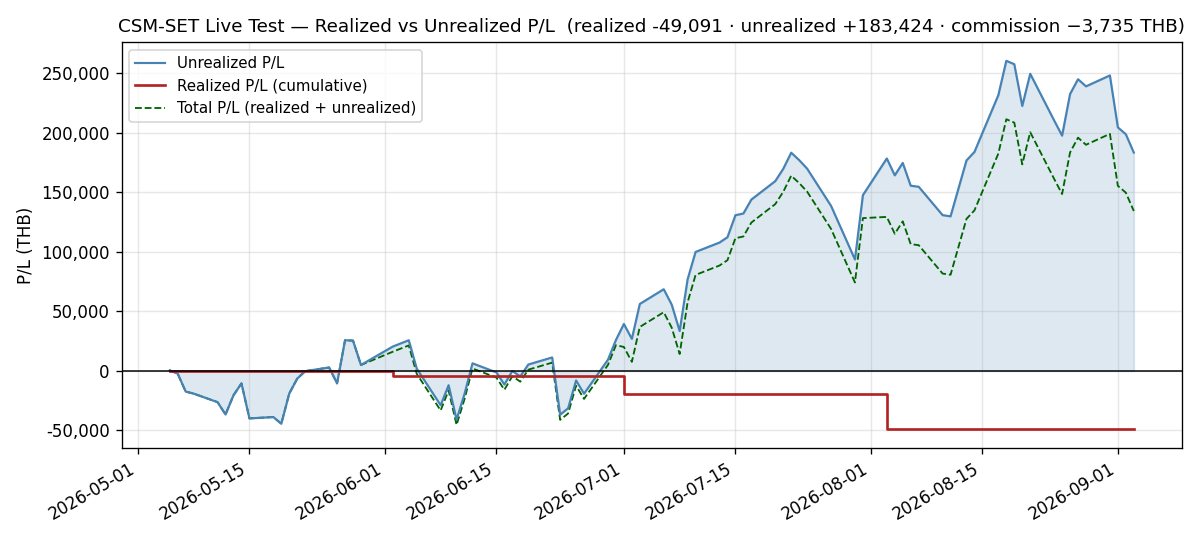
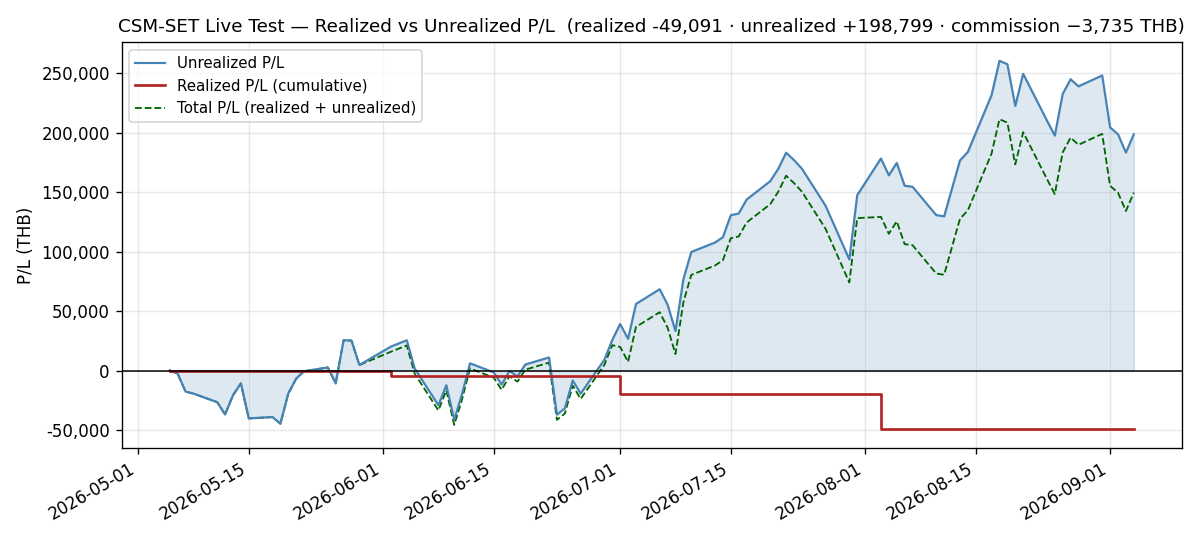
docs(live-test): add daily log for 2026-09-04
NAV closes at 1,268,097.70 THB, up +15,375.00 (+1.2273%), cumulative
+13.22% - a near-complete round trip recovering all but 48.00 THB of
Thursday's decline. Breadth is 7 up / 0 down / 3 flat: not one held name
fell, the first zero-decliner session of the holding period, and three
simultaneous flat prints is also a first.

The daily_return fix is correct for a second session and today proves the
OTHER direction. The legacy basis would have given +0.0121245 against the
true +0.0122733 - understating the gain, exactly as the one-directional
model requires. Every prior observation was on a losing session, i.e. the
overstatement half; the claim is now observed in both signs rather than
inferred from one.

Neither watch item tripped and both are recorded PENDING rather than
dropped: MGC recovered from +0.34% to +1.72% so its EMA100 crossing was
never tested, and AUTO moved away from the 5% floor because MGC rose. Each
forecast was conditioned on a fall that did not happen.

ENERG's headroom set a fourth consecutive tightest but for the FIRST time
by the numerator - the book rose and headroom still fell, because the
sleeve grew +6,440 against a ceiling that grew +5,381.25. Three prior
tightenings were pure denominator. Same reading, opposite cause, so the
cap can tighten in either market direction.

Also verified rather than assumed: the tfex-s50 decommission (TK-0523,
another session) shares this gateway ingestion path, and did not disturb
[…]

diff --git a/docs/live-test/daily/2026-09-04.md b/docs/live-test/daily/2026-09-04.md
@@ -1,0 +1,178 @@
+# Daily Log — 2026-09-04 (Friday)
+
+**As of:** 2026-09-04, Asia/Bangkok
+**Phase:** C — Extended Observation
+**Day:** 85 / 78 trading days remaining in 2026
+**Status:** **NAV closes at 1,268,097.70 THB, up +15,375.00 (+1.2273%)** with no trades — **a near-complete round trip that recovers all but 48.00 THB of Thursday's −15,423.00** and lands **48.00 below** the 2026-09-02 close. 🔑 **Breadth is 7 up, 0 down, 3 flat — NOT ONE HELD NAME FELL**, the first zero-decliner session of the holding period. 🟢 **Nothing anomalous happened, and after four consecutive sessions of defects, deploys and repairs that is itself the finding** — no restatement, no guard warning, both DB return fields behaving. 🔑 **The `daily_return` fix is correct for a SECOND session and today proves the OTHER direction**: the field reads **+0.012273266861053928** = `+15,375.00 ÷ the PRIOR NAV`, where the legacy basis would have given +0.0121245 and **understated the gain** — the one-directional bias these logs asserted for three months is now demonstrated in **both** signs (Risk Note 6). 🟢 **Neither watch item tripped: MGC did not cross its EMA100** (+0.34% → **+1.72%**) and **AUTO moved AWAY from the 5% floor** (0.1775pp → **0.1873pp**) — ⚠ **both 2026-09-03 forecasts are PENDING, not refuted**, because each was conditioned on a fall that did not happen (Risk Notes 4 and the Sector section). 🔑 **ENERG's headroom set a fourth consecutive tightest — but for the FIRST time by the numerator**, on a rising book (Sector section).
+
+---
+
+## Execution Summary
+
+**No trades today.** The September rebalance was a 0-out / 0-in rotation (`monthly/2026-08.md`), so `configs/live_portfolio.yaml` is unchanged and remains valid. Realized P/L for the session is **0.00 THB** and no commission was paid. The next rebalance evaluation is **2026-09-30**, eighteen sessions away.
+
+🟢 **No corporate action and no restatement.** All ten 2026-09-03 closes in `prices_latest.parquet` still match the values that log published, so the banked past did not move for a second consecutive session. The uncredited dividend total **holds at 6,663.00 THB** and the restatement scope holds at **6 of 10** names.
+
+⚠ **A neighbouring service was decommissioned on the shared ingestion path, and it did NOT disturb this strategy's write.** `strategies/tfex-s50-multi-tf-swing` was stopped and removed 2026-09-04 (TK-0523, another session's work). It posts to the same `POST /api/v1/ingest/daily-report` endpoint csm-set uses, and the gateway emits its `portfolio_snapshot` row **only when every active strategy has reported for the date** — so a registry change there could plausibly have blocked or altered the snapshot. **It did not: `active_strategies` still reads 1, unchanged from 2026-09-03 and 09-02, and the snapshot emitted normally.** **Verified rather than assumed** — a decommission on a shared path is exactly the class of change that surfaces two sessions later as an unexplained gap.
+
+---
+
+## Portfolio Snapshot
+
+`Avg Cost` is the commission-inclusive per-share basis carried from `configs/live_portfolio.yaml` (4-decimal precision); `Cost Basis = shares × Avg Cost`, and `U.PL % = MV / Cost Basis − 1`. Per-symbol values reproduce the broker statement exactly.
+
+| # | Symbol | Shares | Avg Cost | Last Price | Market Value (THB) | Cost Basis (THB) | U.PL % |
+|---|--------|-------:|---------:|-----------:|--------------------:|-----------------:|-------:|
+| 1 | IRPC | 56,600 | 2.3037 | 2.82 | 159,612.00 | 130,389.42 | +22.41% |
+| 2 | HANA | 3,000 | 35.8070 | 45.75 | 137,250.00 | 107,421.00 | +27.77% |
+| 3 | GUNKUL | 30,800 | 2.9246 | 4.96 | 152,768.00 | 90,077.68 | +69.60% |
+| 4 | INSET | 42,000 | 3.0848 | 4.54 | 190,680.00 | 129,561.60 | +47.17% |
+| 5 | KCE | 2,600 | 39.0655 | 57.25 | 148,850.00 | 101,570.30 | +46.55% |
+| 6 | EASTW | 24,000 | 4.2672 | 4.80 | 115,200.00 | 102,412.80 | +12.49% |
+| 7 | EPG | 17,300 | 5.9099 | 6.00 | 103,800.00 | 102,241.27 | +1.52% |
+| 8 | FORTH | 5,300 | 16.1270 | 14.70 | 77,910.00 | 85,473.10 | −8.85% |
+| 9 | SMT | 20,400 | 5.8097 | 5.55 | 113,220.00 | 118,517.88 | −4.47% |
+| 10 | MGC | 9,200 | 10.7180 | 7.15 | 65,780.00 | 98,605.60 | −33.29% |
+
+### Portfolio summary
+
+| Metric | Value |
+|--------|-------|
+| Total Cost Basis | 1,066,270.65 THB |
+| Total Market Value | 1,265,070.00 THB |
+| Unrealized P/L | +198,799.35 THB (+18.64%) |
+| Realized P/L (today) | **0.00 THB** |
+| Realized P/L (cumulative, since inception) | **−49,091.38 THB** |
+| Commission paid (cumulative) | **−3,735.16 THB** |
+
+### Account summary
+
+| Metric | Value |
+|--------|-------|
+| Remaining Cash | 3,027.70 THB |
+| Total NAV | 1,268,097.70 THB |
+| Total Return on NAV | +13.22% |
+
+> **Cost-basis note:** Total Cost Basis is unchanged at **1,066,270.65 THB** and the reconciliation delta against Σ per-symbol (`shares × avg_cost`, 4-dp) is **0.00 THB** for a twenty-third consecutive session.
+>
+> **Above/below cost: 7 up / 3 down**, composition unchanged from Thursday — **FORTH, SMT and MGC**. **All three improved**: FORTH from −10.09% to **−8.85%**, MGC from −34.22% to **−33.29%**, and **SMT held flat at −4.47%**. Unrealized rose from **+17.20% to +18.64%**, a **+1.44pp** step. ⚠ **Dispersion WIDENED to 102.89pp** (GUNKUL +69.60% to MGC −33.29%) from 100.40pp — **and it widened on a session in which nothing fell**, because GUNKUL gained 3.42pp against MGC's 0.93pp. **A book where every name rises can still become more dispersed**, and that is worth stating because the intuition runs the other way: breadth and dispersion are independent, and today separates them cleanly.
+>
+> **Total P/L check:** realized + unrealized = −49,091.38 + 198,799.35 = **+149,707.97 THB**, up from +134,332.97 by exactly the +15,375.00 session move. It sits **14,301.99 below** the pre-rotation best of +164,009.96 (2026-07-22) and **61,728.00 below** the live-test maximum of **+211,435.97 set 2026-08-18** — a gap that is exactly the NAV drawdown from peak, as it must be while realized P/L is constant.
+
+---
+
+## Day-over-Day Change (vs Thursday September 3)
+
+Share counts are unchanged from 2026-09-03, so this table fully explains the NAV move: Σ (shares × price change) = **+15,375.00 THB**, which equals the change in Total Market Value to the satang.
+
+🟢 **The `Sep 3 Close` column needs no caveat.** All ten stored 2026-09-03 closes in `prices_latest.parquet` match the values the 2026-09-03 log published, to the satang — **no held name was restated**, so the published and panel bases agree. **Second consecutive clean-history session**, and it is what keeps the DB's `daily_return` directly comparable to this table (Risk Note 6).
+
+| Symbol | Sep 3 Close | Sep 4 Close | Change | Change % | MV Contribution (THB) |
+|--------|------------:|------------:|-------:|---------:|----------------------:|
+| IRPC | 2.82 | 2.82 | 0.00 | 0.00% | 0.00 |
+| HANA | 44.00 | 45.75 | +1.75 | +3.98% | +5,250.00 |
+| GUNKUL | 4.86 | 4.96 | +0.10 | +2.06% | +3,080.00 |
+| INSET | 4.52 | 4.54 | +0.02 | +0.44% | +840.00 |
+| KCE | 57.25 | 57.25 | 0.00 | 0.00% | 0.00 |
+| EASTW | 4.66 | 4.80 | +0.14 | +3.00% | +3,360.00 |
+| EPG | 5.95 | 6.00 | +0.05 | +0.84% | +865.00 |
+| FORTH | 14.50 | 14.70 | +0.20 | +1.38% | +1,060.00 |
+| SMT | 5.55 | 5.55 | 0.00 | 0.00% | 0.00 |
+| MGC | 7.05 | 7.15 | +0.10 | +1.42% | +920.00 |
+| **Total** | | | | **+1.23%** | **+15,375.00** |
+
+**Breadth: 7 up, 0 down, 3 flat.**
+
+> The **+1.23%** on the Total row is the **market-value** change (+15,375.00 / 1,249,695.00 = +1.2303%). The **NAV** change is **+1.2273%** (+15,375.00 / 1,252,722.70) — the two differ only because cash sits in the NAV denominator and not the market-value one. Both are stated because different sections of this log use each.
+
+🔑 **The first session of the holding period in which no held name declined.** Seven rose, three closed exactly unchanged, and none fell — **and three simultaneous flat prints (IRPC, KCE, SMT) is also a first**, against a previous maximum of one. **HANA (+3.98%, +5,250) led** and **EASTW (+3.00%, +3,360) and GUNKUL (+2.06%, +3,080) followed**, the three of them supplying 76% of the session.
+
+**The recovery is almost exactly Thursday's decline run backwards, but it is not the same names.** Thursday's damage was concentrated in the three positions already below cost, which contributed 66% of the loss; **today those three contributed only 13% of the gain** (FORTH +1,060, MGC +920, SMT flat). **The book did not recover by the losers bouncing** — it recovered because HANA, EASTW and GUNKUL, which had fallen −2.22%, −0.85% and 0.00% on Thursday, led on the way back. ⚠ **A round trip in NAV is not a round trip in composition**, and the difference is why dispersion widened on an up day rather than narrowing.
+
+---
+
+## Market Context
+
+| Indicator | Value | Source |
+|-----------|-------|--------|
+| SET Index | 1,595.58 | tvkit (TradingView) |
+| SET Open / High / Low | 1,584.66 / 1,599.10 / 1,579.36 | tvkit |
+| SET 200-day SMA | 1,455.2823 | tvkit (TradingView) |
+| Regime Estimate | BULL | SET +9.64% above SMA200 |
+
+---
+
+## Regime State
+
+- **Detected regime:** BULL — SET (1,595.58) is above SMA200 (1,455.2823) by +9.64%
+- **SMA200 position:** 1,455.2823 — SET closing at 1,595.58
+- **3-month return:** +1.73% (window-sensitive — see Notes)
+- **No regime-driven action.** The regime filter is evaluated at the month-end rebalance, not intra-month. The next evaluation is **2026-09-30**.
+
+**The five-session SET path reads 1,595.16 → 1,588.68 → 1,575.07 → 1,576.92 → 1,595.58**, and the index **rose +18.66 (+1.1833%)** — its largest single-session gain of the holding period, erasing two sessions of decline in one and closing back exactly where the run began. **The shape is the mirror of Thursday's**: today opened at 1,584.66, dipped to 1,579.36 early, then ran to a **1,599.10 high** and closed 3.52 below it — an open-low-close-high session against Thursday's open-high-close-low. 🟢 **The 1,582 level that broke on 2026-09-02 was reclaimed**, and the index is back inside the 1,588–1,602 band it had been working before.
+
+🟢 **The cushion EXPANDED +1.17pp, +8.47% → +9.64% — the largest single-session expansion of the holding period.** ⚠ **This does not reverse the six-week compression and must not be read as doing so.** The SMA200 rose another **+1.50 points** to 1,455.2823 and continues to climb; one session against a trend measured in weeks is not a turn, and the same caution was recorded when the cushion expanded on 2026-08-31 and then resumed falling for four sessions. **At +9.64% the index would need to shed roughly 140 points to reach the SMA200**, from ~123 on Thursday.
+
+🟢 **Against the index the book was essentially in line, +0.0470pp.** Book market value **+1.2303%** against SET **+1.1833%**, and the post-rebalance daily margin sequence now reads **+1.43 / −0.84 / +1.30 / −1.85 / +0.09 / −2.72 / +0.64 / +3.82 / +0.90 / +2.74 / +2.52 / +0.52 / −2.67 / +1.86 / −2.19 / −0.69 / +2.39 / +1.04 / +0.32 / +0.26 / −2.91 / +0.41 / −1.34 / +0.05**. 🟢 **This is the first session in three that the book did NOT move opposite to the tape** — it outperformed into Wednesday's fall and underperformed into Thursday's rise; today it simply tracked. **Cumulatively the book is +2.20% since the 2026-08-03 rebalance-day close against the index's −1.62%, a +3.83pp margin** — recovered from +3.74pp, though still well below the +7.25pp peak of 2026-08-31.
+
+---
+
+## Sector Concentration
+
+Groupings are the SET-official classification re-based at the 2026-08-03 rebalance and are unchanged today; percentages are directly comparable to the prior session for every sleeve.
+
+| Sector | Market Value (THB) | % of NAV | Limit | Status |
+|--------|--------------------:|---------:|-------|--------|
+| Energy & Utilities (ENERG) | 427,580 | 33.7182% | 35% | **OK — watch. Tightest headroom of the holding period** |
+| Electronic Components (ETRON) | 399,320 | 31.4897% | 35% | OK |
+| ICT | 268,590 | 21.1805% | 35% | OK |
+| Construction Materials (CONMAT) | 103,800 | 8.1855% | 35% | OK |
+| Automotive (AUTO) | 65,780 | 5.1873% | 35% | OK |
+
+🔑 **ENERG's headroom fell to 16,254.20 THB — a FOURTH consecutive fresh tightest, and the FIRST driven by the numerator rather than the denominator.** The distinction is the finding and it is worth stating precisely, because three prior sessions established a mechanism that today's session does **not** use. **Sessions 1–3 tightened because NAV FELL**: the 35% ceiling is a percentage of NAV, so a shrinking book lowered the cap while the sleeve barely moved. **Today the book ROSE +15,375.00 and headroom still fell** — because **ENERG gained +6,440** (EASTW +3,360, GUNKUL +3,080, IRPC flat) against a ceiling that gained only **+5,381.25**. ⇒ **The sleeve outgrew the cap.** **Same reading, opposite cause**, and the consequence generalises: **this sleeve can tighten whether the book rises or falls** — on a falling book because the ceiling drops, on a rising book because ENERG rises faster. **A single mechanism repeated four times would have been weaker evidence than two mechanisms producing the same result.** Headroom has now run **34,187.75 → 24,454.60 → 22,883.00 → 17,312.94 → 16,254.20** in five sessions, a **52% reduction with no trade.**
+
+**The sleeve gap widened to 2.2285pp** from 2.1609, and **ENERG has now led on all twenty-three sessions since the rotation.** **ETRON rose +0.03pp to 31.4897%** on **+5,250** — all of it HANA, with KCE and SMT both flat. **ICT fell −0.11pp to 21.1805%** and **CONMAT fell −0.03pp to 8.1855%** on an EPG that gained 865: **both are pure denominator, and both illustrate the inverse of the ENERG case in the same table** — a sleeve that grows more slowly than the book loses weight even while gaining value.
+
+🟢 **AUTO rose to 5.1873% and moved AWAY from the 5% floor** — 0.1775pp → **0.1873pp** above it — **ending a ten-session run of consecutive holding-period lows.** ⚠ **The 2026-09-03 projection of "two to three sessions" to a breach is PENDING, not refuted.** It was explicitly conditioned on MGC continuing to fall roughly with the book; **MGC rose +1.42% against a book that rose +1.23%**, so the condition did not hold. **A forecast whose precondition did not occur has not been tested**, and recording that is the difference between a projection that can be checked and one that quietly disappears when convenient.
+
+---
+
+## Risk Notes
+
+1. 🟢 **RESOLVED (holding, unexercised) — the dual-bar defect did not recur for a third consecutive session.** `prices_latest.parquet` holds **945 rows, every one stamped 09:55 BKK, 211 of 211 symbols non-null on every recent session, and ZERO days carrying more than one bar.** Both guards shipped 2026-09-01 logged **no warnings**. ⚠ **Unchanged and worth not softening: silence is the correct outcome and is NOT evidence.** The vendor has not split a day since, so the collapse still has nothing to collapse and **the guard remains deployed-but-unexercised after three clean sessions.** **Three clean sessions test it no more than one did.** Full report: `events/2026-09-01-dual-bar-nav-corruption.md`.
+2. **INSET remains outside the 15% position bound, but the breach narrowed sharply — by a THIRD distinct form of the same inverted mechanism.** INSET closed at **15.0367% of NAV**, **465.34 THB over** the 190,214.66 ceiling, from 1,931.60 over on Thursday. ⚠ **Today INSET ROSE (+0.44%) and the bound still improved, because it rose LESS than the book (+1.23%).** ⇒ **The bound has now been observed responding to relative performance in every available direction**: it improved when INSET fell on a falling book (09-01, 09-02), breached when INSET rose faster than the book (09-03), and improved when INSET rose slower than the book (today). **Four sessions, three distinct forms, one conclusion — the bound measures relative performance, not exposure.** **A position's share of a portfolio is a ratio, and a ratio-based risk limit is a performance comparison wearing a risk limit's name.** The holding-period path reads … 15.24 → 14.97 → 14.84 → 15.15 → **15.04%** — **outside on twenty-one of twenty-four sessions.** The other nine remain inside: IRPC 12.59%, GUNKUL 12.05%, KCE 11.74%, HANA 10.82%, EASTW 9.08%, SMT 8.93%, EPG 8.19%, FORTH 6.14%, MGC 5.19%. The July plan's request remains **open** — sixteenth consecutive log.
+3. **The 2026-08-03 entrants improved for the first time in five sessions.** Combined entrant unrealized recovered to **−38,123.48 THB** (SMT **−5,297.88**, MGC −32,825.60) from −39,043.48, a **+920.00** improvement — **all of it MGC**, since SMT closed flat. The path reads −30,043.48 → … → −33,123.53 → −39,043.48 → **−38,123.48** against a day-one figure of −13,223.48. ⚠ **One session's recovery of 920.00 against a four-session deterioration of 15,819.95 does not change the picture**, and the pair remains the book's clearest unresolved construction question. **The divergence narrowed to 28.82pp** (from 29.75pp) — **and for the first time in three sessions it narrowed because the LAGGARD rose**, rather than because both fell. **That is the first convergence of the run that means anything.** The fix-notional-not-shares argument carries to **2026-09-30**.
+4. 🟢 **MGC did NOT cross its EMA100 — it recovered to +1.72% — and the 2026-09-03 forecast is PENDING, not wrong.** **Validated EMA100 readings** (method positive-controlled first — see Risk Note 5): **MGC is closest at +1.72%**, price **7.15** against an EMA100 of **7.0289**, a gap of **0.1211 THB** (from 0.0236 on Thursday); then **FORTH (+4.86%)**, **EASTW (+9.42%)** and **EPG (+13.27%)**; the widest is **SMT at +41.76%**. **All ten held names remain above their EMA100**, so `ema100_fast_exit` does not fire. ⚠ **The 2026-09-03 log forecast that "on any ordinary down tick MGC crosses". MGC rose +1.42% instead, so the forecast's precondition did not occur and it is neither confirmed nor refuted — it is UNTESTED and carries forward.** **Recording that explicitly matters**: a forecast silently dropped on the session it did not fire is indistinguishable from one that was wrong, and the difference is exactly what makes the next one worth reading. 🔴 **The structural point is unchanged and is not softened by one good session**: the rule is evaluated **only** at the month-end rebalance, the September evaluation already retained MGC, and the next is **2026-09-30, eighteen sessions away** — so a crossing at any point in September is carried to month end regardless. **Six of ten readings expanded, four compressed.**
+5. 🟢 **Price verification returned NO mismatch and the EMA100 control reproduced 5 of 5 — the same agreeing pair as Thursday.** The standing practice of re-fetching held names and comparing against the **prior log's published closes** returned **all ten matching to the satang**. Independently, reproducing the 2026-09-03 log's published EMA100 readings from the current panel returned **EASTW +6.43%, EPG +12.63%, FORTH +3.53%, SMT +42.97% and MGC +0.34% — all five exact.** ⚠ **On a session with no restatement the control tests only that the method is stable** — it cannot test multiplicative invariance because nothing was rescaled, and that is a weaker result than 2026-09-02's, when the same pair *disagreed* and thereby localised a restatement to one symbol and one date. **Two agreeing checks are worth more than one, and still less than one that catches something.** ⚠ **No new live-test high today.** **IRPC HOLDS the live-test high at 2.82 by closing flat** — it matched Thursday's level rather than exceeding it. **A flat print equal to the maximum is not a new extreme**, and it is stated that way deliberately: the mechanical `>=` comparison reports it as a fresh high, and reporting it as such would inflate a four-session run that is really a three-session run plus a hold. **No fresh live-test low.** ⚠ **GUNKUL, INSET, EPG, MGC and FORTH remain excluded from high/low comparisons** because their windows are on a restated basis — see Risk Note 13.
+6. 🔑 **DATA — `daily_return` is correct for a SECOND consecutive session, and today demonstrates the bias direction that three months of logs could only assert.** The DB reads **+0.012273266861053928**, reproducing exactly as **`+15,375.00 ÷ 1,252,722.70`** — `daily_pnl ÷ the PRIOR NAV`. 🟢 **The gateway logged ZERO `LEGACY basis` fallback warnings.** ⚠ **Why an up day is the more informative test.** The defect these logs carried was described as **one-directional**: dividing by today's NAV **understates gains and overstates losses**, because the denominator moves with the numerator. **Every prior observation was on a losing session**, where the legacy value was too *negative* — the overstatement half. **Today is the first correct-basis reading on a winning session**, and the legacy basis would have produced **+0.0121245** against the true **+0.0122733**: **smaller, i.e. understated, exactly as the model requires.** ⇒ **The claim is now observed in both signs rather than inferred from one.** 🟢 **And because nothing was restated, the field again equals this log's headline +1.2273% exactly.** ⚠ **Still conditional, still not permanent**: it is right because the fix is deployed **and** no bar moved, and the restatement sensitivity is untouched. **Fixed:** `quant-api-gateway` PR #38, merged `06419e1`, deployed 2026-09-02. **Still open:** the 112-row backfill ([[TK-0489]]).
+7. ⚠ **DATA — `cumulative_return` still re-anchors, and the anchor held.** It reads **+0.02199449685276189**, reproducing as `1,268,097.70 ÷ 1,240,806.7792389998 − 1` against a true Total Return on NAV of **+13.22%** — an **11.02pp** gap. **The 2026-08-03 anchor row still reads 1,240,806.7792389998, unchanged.** ⚠ **Restated for a second session because the contrast is now live**: one of the two gateway return fields is fixed and the other is not, so *"the gateway return bug is fixed"* is true of `daily_return` and **false** of this one. The `entry_date` re-anchoring is why this reads +2.20% against a true +13.22%. Quote this log's **+13.22%**, computed against the rebased `starting_nav` of 1,120,000. Do not chart the DB column.
+8. 🟢 **DATA — `combined_drawdown` correctly HELD at −0.05299053743752902.** The book rose, so no new trough was set, and the running minimum must not move — and it did not. **The field's five-behaviour catalogue, completed on 2026-09-03, now has its first out-of-sample confirmation**: having moved on a new trough Thursday, it holds today on a recovery, which is the behaviour the mechanism predicts. **The two real defects are unchanged:** **(a)** `entry_date` truncation — it cannot express anything before 2026-08-03, and the full `equity_curve` maximum drawdown remains **−7.1073% at 2026-07-30**; **(b)** restated inputs.
+9. 🟢 **RESOLVED (holding) — the holiday calendar resolved cleanly for an eighth consecutive session.** The 18:00 refresh logged `SET holiday calendar for 2026-09-04 resolved from the banked cache (20 closures, captured 2026-09-04T03:10:44Z)` — a **tenth independent validation** of the committed fallback. The opportunistic poller (`452ba69`) has now run for eight consecutive sessions without the refresh contacting the endpoint on its critical path. Remaining follow-up unchanged: **capture the 2027 table from 2027-01-01.**
+10. 🟢 **The refresh ran 135.803 s — inside the 119.60–139.20 s band — and the re-derivation trigger stays reset.** APScheduler ran the 18:00 BKK job (**next run 2026-09-07 18:00 +07 — Monday**); held symbols and universe both cleared first pass, giving **`failures=0`, `symbol_count=211`, `retry_attempts_used=0`, `index_fetched=true`** — a **twenty-fourth consecutive fully clean run**. **Two of the last seven sessions ran over the band and they were not consecutive**, so the standing "a third means re-deriving it" trigger remains unmet and is explicitly left reset for a second session. The container has been up since **2026-09-01 14:09:59 UTC** with `RestartCount=0` — ⚠ **that uptime reset was the dual-bar fix's deployment, not an incident**, attributed here for a third session so it is not read as an unexplained bounce. Still **private mode** (`CSM_PUBLIC_MODE=false`).
+11. **CLOSED (same session) — `pnl.csv` was brought current in the same unit of work as this log.** The series ended at **2026-09-03** (83 rows); the row `2026-09-04,-49091.38,198799.35,149707.97,3735.16` was appended, continuing the same-session practice for a **sixteenth consecutive session**. The CSV now runs **84 rows, 2026-05-05 → 2026-09-04, matching `equity_curve`'s 84**, with the `realized_cum + unrealized = total_pl` identity holding on every row, no duplicate dates, no 2026-08-12 row, `commission_cum` stepping only on the six known fill dates, and the residual at **1,610.27**. **`pnl_realized_unrealized.png` was regenerated**, so both artifacts end together at **84 points**; the four PNGs were checksummed before and after and the three NAV charts are byte-identical. ⚠ **The 2026-09-01 divergence between `pnl.csv` (+204,583.35, as-published) and `equity_curve` (restated) persists and is by design.** **Today added no new divergence.**
+12. 🟢 **Circuit-breaker buffer 16.10% of NAV, +1.04pp on the session — and NAV is back ABOVE the pre-rotation peak.** The 5% breaker trips at **1,064,000 THB** (1,120,000 × 0.95). NAV sits **+204,097.70 THB above it**, up from +188,722.70. **Today's NAV is 4.64% off peak**: raw, 1,268,097.70 against the 2026-08-18 peak of **1,329,825.70** is **−61,728.00, or −4.6418%**; ex-injection, 1,248,097.70 against 1,309,825.70 is **−4.7127%**. **Both lines agree.** **The drawdown recovered from Thursday's −5.7980%**, which was the deepest of the holding period. 🟢 **Raw NAV is 5,697.35 ABOVE the pre-rotation 2026-07-22 peak of 1,262,400.35** — the cushion that 2026-09-03 recorded as lost was regained in a single session, and **the 2026-09-02 prediction that "one more ordinary down day removes it" remains correctly recorded as having landed**; it was removed, and then it came back. The separate `circuit_breaker.trigger_threshold` is **−10% on a rolling 60-day window**; −4.64% is comfortably clear.
+13. **DATA (carried, no new instance) — no name was restated today and the scope is unchanged.** The scope holds at **6 of 10 held names carrying restated bars** — EPG, GUNKUL, KCE, INSET, MGC, FORTH. **FORTH's second adjustment (its 2026-09-01 close 15.50 → 15.40, factor 0.9935483871) stands** — `equity_curve` still reads **1,273,351.70** for 2026-09-01 where `daily_performance` reads **1,273,881.70**, and **both remain correct on their own basis** (the latter is append-only). **The mixed-basis trap remains live** for GUNKUL, INSET, EPG, MGC and FORTH. See `docs/live-test/events/2026-08-01-price-adjustment-never-applied.md`.
+14. **INFRA (carried, observation only — no action taken) — the container publishes `:8100` on all interfaces while private-mode auth is disabled.** **`CSM_API_KEY` is absent from the container environment entirely** and `CSM_PUBLIC_MODE=false`; the port is published on `0.0.0.0:8100` and `[::]:8100`. **Risk tier: low-moderate and LAN-scoped** — a read-mostly strategy API on a trusted home network, no broker credential in this container, no order-submission path. **Two low-risk options, operator's call:** bind to `127.0.0.1:8100:8000`, or set `CSM_API_KEY`. **This is the seventeenth consecutive log to carry it unchanged**, and the third since a container recreate passed without closing it. ⚠ **The next recreate remains the cheapest moment to act.**
+15. **The uncredited dividend total HELD at 6,663.00 THB.** KCE **1,560.00**, INSET **2,100.00**, MGC **2,208.00**, FORTH **795.00**. **No held name went ex-dividend today.** It stands at **4.45%** of the +149,707.97 total P/L, **down from 4.96%** — ⚠ **and the whole decrease is denominator, exactly as the increase was on 2026-09-03.** **The ratio moved 4.45% → 4.96% → 4.45% across three sessions without the numerator changing by one satang.** **A ratio that oscillates purely on its denominator carries no information about the problem it names**, and saying so on the session it falls is the same discipline as saying it on the session it rose. **There is still no dividend-accrual or dividend-receivable path anywhere in the live-test book.** **Recorded as an observation and deliberately not corrected.** The decision carries to **2026-09-30**.
+16. **Four open decisions carry to the 2026-09-30 evaluation.** The sector-cap and position-bound drift question (Risk Note 2 and the Sector section), fix-notional-not-shares on the entrants (Risk Note 3), restate-vs-cutover for price history (Risk Notes 5, 7 and 13), and dividend accrual (Risk Note 15). **All four crossed the 2026-09-01 rotation boundary undecided**; the next forcing point is **2026-09-30**, eighteen sessions away. 🟢 **The `daily_return` denominator defect remains OFF this list** — localised 2026-09-01, fixed and merged (`06419e1`) 2026-09-02, deployed the same day, verified natively correct 2026-09-03, and **demonstrated in both bias directions today**. [[TK-0489]] stays open **for the 112-row backfill only**.
+
+---
+
+## Notes
+
+- **Scheduled refresh completed via APScheduler with zero failures — a twenty-fourth consecutive clean run, inside the band.** `Completed daily refresh` (`duration_seconds=135.80268782796338, symbol_count=211, failures=0, held_symbols_fetched=10, held_symbols_failed=0, retry_attempts_used=0, index_fetched=true`); job `executed successfully` with `next run at: 2026-09-07 18:00:00 +07`. `results/.tmp/last_refresh.json` corroborates (`timestamp=2026-09-04T11:02:18Z`). **Scheduled refreshes write no job receipt** — the newest file under `results/.tmp/jobs/` is still `01KZJY1ZQ5KNBQJYZXGPH4XWAJ.json` from the 2026-08-09 manual run. **The run was the scheduled cron firing, not a manual trigger** (Risk Note 10).
+- ⚠ **A neighbouring strategy was decommissioned on the shared gateway path and its non-effect here was VERIFIED, not assumed.** `strategies/tfex-s50-multi-tf-swing` was stopped and removed 2026-09-04 (TK-0523, another session's work; the repo is deliberately not archived because research instruments import its `src/`). **It posts to the same ingestion endpoint**, and the gateway emits `portfolio_snapshot` **only once every active strategy has reported for the date** — so a registry change there is a plausible way for this strategy's snapshot to silently stop. **It did not happen: `active_strategies` reads 1, unchanged across 09-02, 09-03 and 09-04, and today's snapshot emitted normally.** **Checked because a shared-path change is exactly what surfaces two sessions later as an unexplained gap**, not because anything looked wrong.
+- 🟢 **The price panel and the prior log agree on all ten names — the second consecutive clean comparison.** The documented approach reads the last two rows of `prices_latest.parquet`; today those are unambiguous (**945 rows, one per trading day, no duplicates**) *and* they match what the 2026-09-03 log published. ⚠ **The rule is unchanged: a restatement and a clean session are indistinguishable until the comparison has been run.**
+- **Today's closes were separately re-verified against the live vendor.** All ten held-name 2026-09-04 closes were re-fetched via tvkit and matched the panel exactly. **The prior-log comparison tests the panel's HISTORY; the tvkit re-fetch tests its TODAY.** Both are run because neither subsumes the other.
+- **The EMA100 figures were positive-controlled before use and returned 5 of 5** (Risk Note 5) — a stability check only, weaker than a session where the control catches something.
+- **Row-integrity checks pass.** `db_gateway.daily_performance` holds **85 rows across 85 distinct dates**, 2026-05-04 → 2026-09-04, and 85 rows is exactly Day 85 — an independent confirmation of the day counter. `db_csm_set.equity_curve` holds **84 rows across 84 distinct dates**, up exactly one, **every row stamped 00:00 UTC and zero non-midnight rows**; the `b76d709` normalization is holding for a twenty-fourth session. 🟢 **No historical value moved today.**
+- **`configs/live_portfolio.yaml` is unchanged** since the 2026-08-03 rewrite — 10 positions, `cash` 3,027.70, `starting_nav` 1,120,000, `entry_date` 2026-08-03. Σ `shares × avg_cost` = **1,066,270.65 THB**, matching this log's Total Cost Basis exactly (0.00 delta). Immutable until **2026-09-30**.
+- **The P/L identity holds and its residual is unchanged.** `realized_cum + Unrealized P/L − (Total NAV − starting_nav)` = −49,091.38 + 198,799.35 − 148,097.70 = **1,610.27 THB**, identical to the prior session's. The value to carry forward remains **1,610.27**.
+- **Every figure was verified rather than asserted, and the conditional check held for a second session.** Σ position market value equals Total Market Value exactly (1,265,070.00); **Total NAV (1,268,097.70) equals `db_gateway.daily_performance.total_value` to the satang**; Σ (shares × price change) equals the market-value change (+15,375.00) exactly; the sector table sums to Total Market Value exactly; Σ per-symbol cost basis matches Total Cost Basis with a 0.00 delta; the position count is 10. **The DB's `daily_return` again equals this log's headline day change**, and was additionally asserted **NOT** to equal the legacy `÷ today's NAV` value — the up-day direction test (Risk Note 6). ⚠ **It remains conditional: a future session where it fails should be read as a restatement, not a regression.** All money arithmetic used `Decimal` at 2-dp and every percentage was re-checked with explicit half-up rounding (INSET 15.0367% against a 190,214.66 THB ceiling on a 190,680.00 THB position, 465.34 over; ENERG 33.7182% with 16,254.20 THB of headroom; the ENERG−ETRON gap 2.2285pp).
+- **Realized P/L and commission ledger — both unchanged, no trades today.** Realized: −4,351.87 (2026-06-02) · −14,964.06 (2026-07-01) · −29,775.45 (2026-08-03) = **−49,091.38** cumulative. Commission: 1,611.15 (05-05) · 984.44 (06-02) · 169.09 (06-04/05) · 287.83 (07-01) · 682.65 (08-03) = **−3,735.16** cumulative.
+- **Capital events to date, unchanged.** 2026-06-04: +100,000 THB (`starting_nav` 1,000,000 → 1,100,000). 2026-08-03: +20,000 THB (1,100,000 → 1,120,000). Cumulative injected capital **120,000 THB** against an original 1,000,000 base.
+- **Fresh-high/low claims are scoped to their window.** "Fresh live-test high/low" is measured from 2026-05-04 (Day 1) against the parquet series **restricted to that window**. ⚠ **Today: NO new high and no fresh low.** **IRPC HOLDS the live-test high at 2.82 by closing flat**, matching rather than exceeding the level it set on 2026-09-03 — stated as a hold because the mechanical `>=` check reports an equal print as a fresh high, and a run of "three highs plus a hold" is not a run of four. Positions below their live-test high on an unrestated basis: HANA (45.75 vs 49.00, −6.63%), KCE (57.25 vs 60.50, −5.37%), EASTW (4.80 vs 5.80, −17.24%), SMT (5.55 vs 6.10, −9.02%). ⚠ **GUNKUL, INSET, EPG, MGC and FORTH are stated separately because their windows are restated.**
+- **3-month return figure is window-sensitive.** Today's +1.73% references the −66 bar; the lookback anchor is not a stable calendar point, so read it as approximate — the regime cushion (+9.64%) is the reliable trend gauge. The +1.22pp step from +0.51% is a mix of anchor-roll and today's +1.18% index move, and is flagged as mixed rather than attributed.
+- **Follow-ups for the next session (Monday 2026-09-07 18:00 +07).** (a) 🔴 **MGC's EMA100 crossing is DEFERRED, not avoided** — 0.1211 THB of gap, and no rule can act until 2026-09-30 (Risk Note 4); (b) **AUTO's floor projection is PENDING** — it moved away from the floor because MGC rose (Sector section); (c) **watch ENERG's headroom**, now tightening by two distinct mechanisms; (d) **check `daily_return` stays natively correct** — it will diverge from the headline again the next time a bar is restated, and that is expected, not a regression (Risk Note 6); (e) **the dual-bar guard is still unexercised** after three clean sessions (Risk Note 1); (f) decide the `:8100` binding at the next recreate (Risk Note 14); (g) 🔴 **[[TK-0489]]'s 112-row backfill is unmade**; (h) capture the 2027 holiday table from 2027-01-01.
+- **Calendar.** **September has no market closures.** **Today is Friday; the next session is Monday 2026-09-07**, confirmed by the scheduler's `next run at: 2026-09-07 18:00:00 +07`. The next 2026 closure is **2026-10-13**, and the next rebalance evaluation is **2026-09-30**.
+- Data fetched via tvkit (TradingView, free tier) — all 10 held-symbol prices from the 18:00 BKK scheduled-cron refresh and independently re-verified against tvkit; SET Index context anchored explicitly to the 2026-09-04 bar.

diff --git a/docs/live-test/graphs/README.md b/docs/live-test/graphs/README.md
@@ -260,6 +260,28 @@ do not re-derive `k` from the new NAV.
 
 ## History
 
+**`pnl.csv` extended through 2026-09-04** on 2026-09-04, appending the **2026-09-04** row — one row,
+continuing the same-session practice for a **sixteenth** consecutive session. `realized_cum` and
+`commission_cum` are unchanged (no trade since the 2026-08-03 rotation; September's rebalance was
+0-out / 0-in), so the whole movement is the unrealized leg (+183,424.35 → **+198,799.35**, a
+**+15,375.00** session that recovers all but **48.00 THB** of the prior day's −15,423.00). The
+reconciliation residual holds at **1,610.27**. **`pnl_realized_unrealized.png` was regenerated in the
+same session**, so the two artifacts end together at **84 points**; the three NAV charts were
+checksummed before and after and are byte-identical (`drawdown` eea580c3…, `equity_curve` 25b0baf9…,
+`monthly_returns` aebd96bd…), with only the P/L PNG's hash moving (2bfe465f… → 14594e92…).
+
+🟢 **NO restatement on 2026-09-04 — second consecutive clean session.** All ten 2026-09-03 closes
+still match what that log published, and the EMA100 positive control reproduced 5 of 5.
+
+⚠ **The 2026-09-01 divergence PERSISTS and is still by design.** `pnl.csv` carries the
+**as-published** unrealized of **+204,583.35** for that date; `equity_curve` carries **1,273,351.70**
+(the FORTH-restated basis); `db_gateway.daily_performance` — append-only — still carries
+**1,273,881.70**. **Three series, two bases, all three right on their own terms.** `pnl.csv` tracks
+what was published; `equity_curve` tracks what the panel currently says. Do not "reconcile" that row.
+
+**`nav_actual.csv` and `nav_twr.csv` were not extended** — the ordinary mid-month state; they are
+rebuilt from `equity_curve` **at month-end**, so the four PNGs sit on two dates as usual.
+
 **`pnl.csv` extended through 2026-09-03** on 2026-09-03, appending the **2026-09-03** row — one row,
 continuing the same-session practice for a **fifteenth** consecutive session. `realized_cum` and
 `commission_cum` are unchanged (no trade since the 2026-08-03 rotation; September's rebalance was
